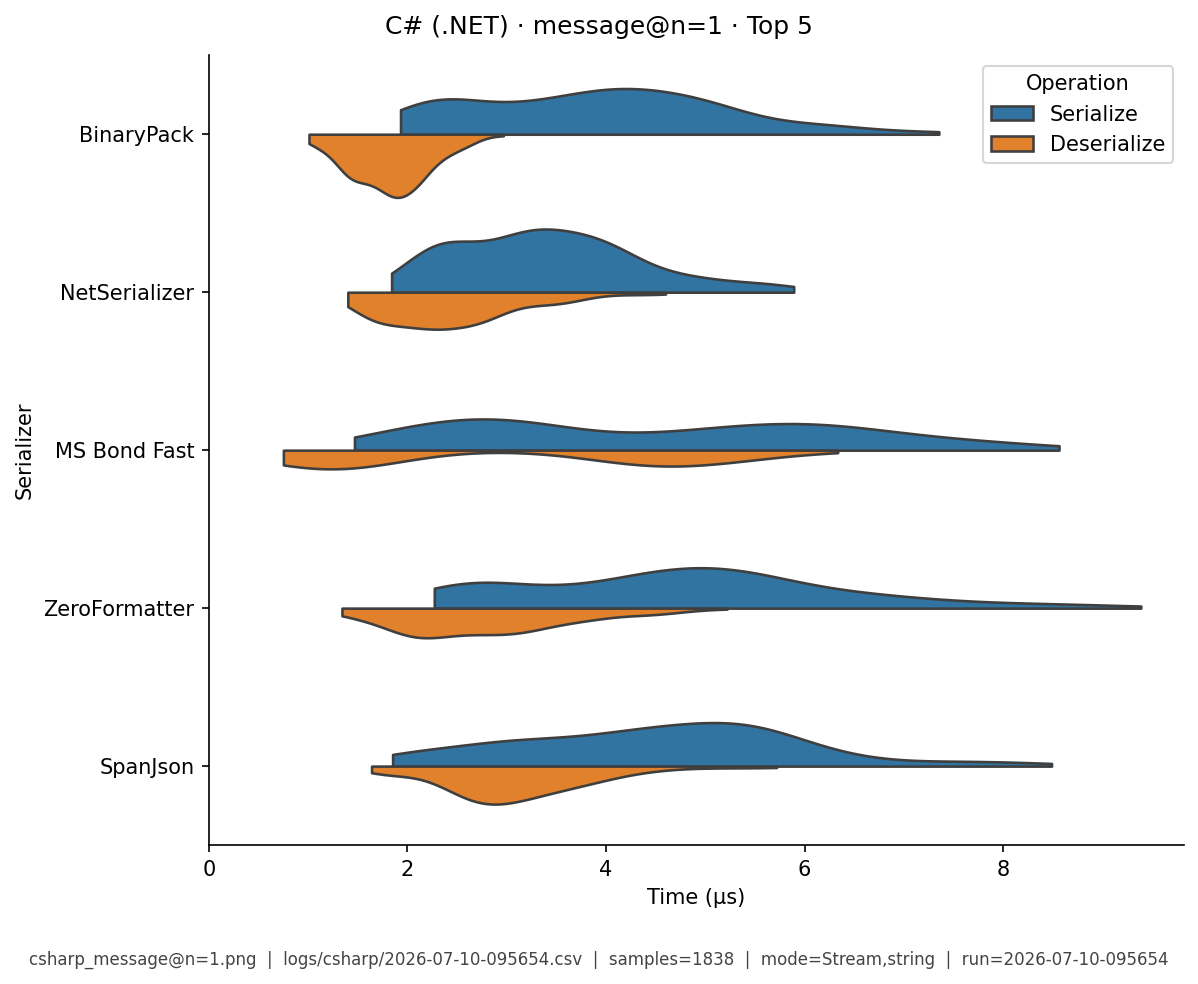
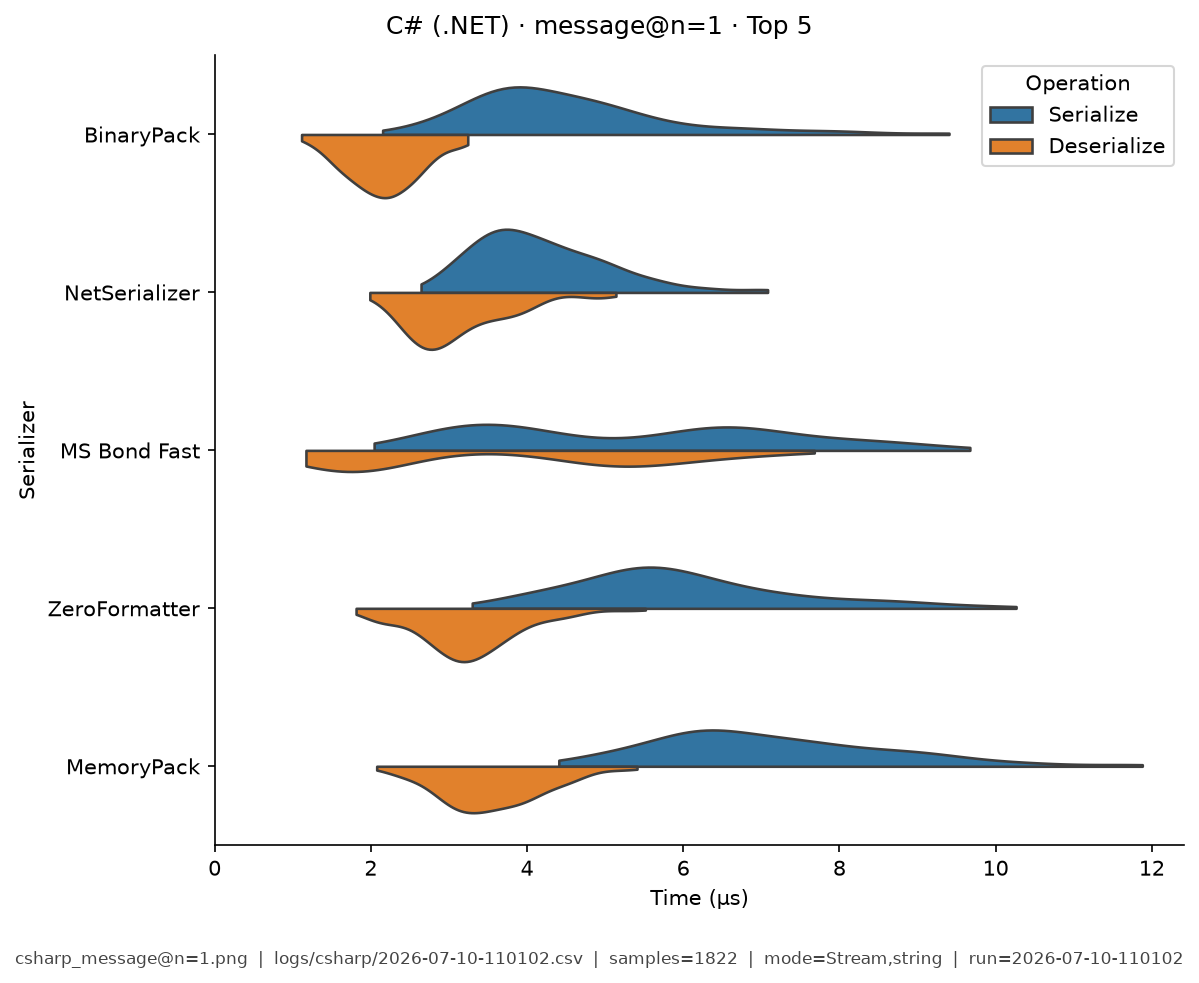
docs: refresh C# analysis after V2-only full run.
100-rep matrix (2026-07-10-110102, 72k rows, 36 serializers × 5 type_ids
× N∈{1,100}) with message/document/telemetry/strings/event only. Regenerate
docs/c-sharp/results.md and csharp_*@n=* violin plots.

diff --git a/docs/c-sharp/results.md b/docs/c-sharp/results.md
@@ -1,6 +1,6 @@
 # C# (.NET) — Benchmark Results
 
-**Generated:** 2026-07-10T10:03:30.390130
+**Generated:** 2026-07-10T11:03:44.988010
 
 Published **local snapshot** (not regenerated by GitHub Actions). Numbers may differ if you re-run benchmarks on another machine.
 
@@ -16,126 +16,126 @@ Default multi-serializer view shows **high-importance** metrics only ([METRICS.m
 
 | serializer | Median total (µs) | Median ser (µs) | Median deser (µs) | Ops/s (from mean) | Median size (B) | Samples | Fidelity |
 |---|---|---|---|---|---|---|---|
-| BinaryPack:1.0.3 | **83.9** | **36.9** | **47** | **83K** | 6.363e+04 | 1767 | **1.00** |
-| MemoryPack | 89.7 | 38.9 | 48.8 | 59.6K | 3.902e+04 | 1705 | **1.00** |
-| ZeroFormatter:1.6.4 | 114 | 53.2 | 60.6 | 62.9K | 3.59e+04 | 1750 | **1.00** |
-| GroBuf:1.9.2 | 118 | 48.9 | 68.1 | 37.7K | 6.61e+04 | 1742 | **1.00** |
-| MS Bond Compact:.NET 8.0.28 | 119 | 54.5 | 62.8 | 58.8K | 3.461e+04 | 1725 | **1.00** |
-| MS Bond Fast:.NET 8.0.28 | 122 | 56.8 | 64.1 | 73.7K | 3.681e+04 | 1720 | **1.00** |
-| Google.Protobuf:3.35.1 | 126 | 60.5 | 64.3 | 57.7K | **3.173e+04** | 1731 | **1.00** |
-| FlatSharp:7.5.1 | 134 | 56 | 76.1 | 35.9K | 4.436e+04 | 1731 | **1.00** |
-| NetSerializer:4.1.2 | 165 | 76.6 | 88.1 | 72K | 3.617e+04 | 1733 | **1.00** |
-| ProtoBuf:2.4.9.1 | 175 | 64.2 | 109 | 38.2K | 3.63e+04 | 1746 | **1.00** |
-| Ceras:4.1.7 | 178 | 68.7 | 107 | 18.3K | 3.363e+04 | 1766 | **1.00** |
-| Hyperion:0.12.2 | 243 | 140 | 102 | 36K | 3.532e+04 | 1739 | **1.00** |
-| Migrant:0.13.0.0 | 245 | 127 | 118 | 8.49K | 6.619e+04 | 1767 | **1.00** |
-| FsPickler:5.3.2 | 248 | 141 | 107 | 15.8K | 3.784e+04 | 1751 | **1.00** |
-| ExtendedXmlSerializer:3.10.0.0 | 281 | 132 | 140 | 7.76K | 5.478e+04 | 1703 | **1.00** |
-| SpanJson:4.2.1 | 367 | 202 | 163 | 47.5K | 5.352e+04 | 1730 | **1.00** |
-| Utf8Json:1.3.7 | 456 | 199 | 254 | 28.8K | 5.352e+04 | 1735 | **1.00** |
-| System.Text.Json:8.0.0.0 | 497 | 241 | 253 | 20.1K | 6.244e+04 | 1781 | **1.00** |
-| NetJSON:1.0.0 | 517 | 231 | 284 | 29.8K | 5.316e+04 | 1732 | **1.00** |
-| Jil:2.17.0 | 621 | 302 | 318 | 26.6K | 5.327e+04 | 1711 | **1.00** |
-| MS Bond Json:.NET 8.0.28 | 629 | 263 | 359 | 31.1K | 5.36e+04 | 1697 | **1.00** |
-| MS Binary:.NET 8.0.28 | 689 | 330 | 352 | 12.1K | 4.81e+04 | 1790 | **1.00** |
-| ServiceStack:6.11.0 | 847 | 394 | 451 | 16.6K | 5.054e+04 | 1756 | **1.00** |
-| FsPicklerJson:5.3.2 | 860 | 353 | 504 | 15.1K | 6.844e+04 | 1769 | **1.00** |
-| ServiceStack Json:6.11.0 | 883 | 412 | 457 | 16.3K | 5.332e+04 | 1798 | **1.00** |
-| Json.Net:13.0.4 | 888 | 408 | 480 | 47.3K | 5.811e+04 | 1689 | **1.00** |
-| Json.Net (Helper):13.0.4 | 922 | 429 | 493 | 17.2K | 5.743e+04 | 1729 | **1.00** |
-| MS DataContract:.NET 8.0.28 | 1.06e+03 | 402 | 647 | 10.7K | 1.139e+05 | 1769 | **1.00** |
-| MS DataContract Json:.NET 8.0.28 | 1.15e+03 | 367 | 777 | 14.1K | 6.221e+04 | 1758 | **1.00** |
-| MS XmlSerializer:.NET 8.0.28 | 1.17e+03 | 540 | 622 | 10.3K | 1.146e+05 | 1771 | **1.00** |
-| fastJson:2.4.0.4 | 1.24e+03 | 401 | 773 | 14.2K | 8.677e+04 | 1777 | **1.00** |
-| SharpYaml:3.12.0 | 2.51e+03 | 503 | 2e+03 | 3.18K | 6.594e+04 | 1753 | **1.00** |
-| YAXLib:4.4.0 | 3.1e+03 | 1.31e+03 | 1.67e+03 | 1.84K | 1.14e+05 | 1752 | **1.00** |
-| SharpSerializer | 5.17e+03 | 1.17e+03 | 3.88e+03 | 6.1K | 2.047e+05 | 1812 | **1.00** |
-| CsvHelper:33.1.0 | 5.68e+03 | 3.2e+03 | 2.46e+03 | 355 | 1.356e+05 | 1802 | **1.00** |
-| YamlDotNet:17.1.0 | 9.55e+03 | 5.2e+03 | 4.27e+03 | 2.25K | 6.044e+04 | 1773 | **1.00** |
+| FlatSharp:7.5.1 | **23.4** | **9.76** | **13.3** | 94.1K | 1.661e+04 | 1784 | **1.00** |
+| BinaryPack:1.0.3 | 32.4 | 14.1 | 17.8 | **115K** | 2.291e+04 | 1756 | **1.00** |
+| MemoryPack | 60.9 | 26.6 | 33.9 | 66.5K | 1.659e+04 | 1743 | **1.00** |
+| ZeroFormatter:1.6.4 | 65.4 | 28.8 | 36.5 | 66.7K | 1.364e+04 | 1784 | **1.00** |
+| MS Bond Compact:.NET 8.0.28 | 70.1 | 32.9 | 37.2 | 62K | 1.141e+04 | 1755 | **1.00** |
+| MS Bond Fast:.NET 8.0.28 | 70.8 | 32.7 | 38 | 72.6K | 1.36e+04 | 1769 | **1.00** |
+| GroBuf:1.9.2 | 86.4 | 47.5 | 38.1 | 42.2K | 2.716e+04 | 1761 | **1.00** |
+| Google.Protobuf:3.35.1 | 88.8 | 44.9 | 43.2 | 55.7K | 1.184e+04 | 1771 | **1.00** |
+| NetSerializer:4.1.2 | 91.4 | 39.3 | 51.7 | 71.9K | 1.195e+04 | 1781 | **1.00** |
+| ProtoBuf:2.4.9.1 | 111 | 36.9 | 73.7 | 44.2K | 1.218e+04 | 1775 | **1.00** |
+| Ceras:4.1.7 | 122 | 43.1 | 78.2 | 20.6K | **1.14e+04** | 1777 | **1.00** |
+| Migrant:0.13.0.0 | 132 | 55.7 | 75.1 | 10.5K | 2.534e+04 | 1794 | **1.00** |
+| SpanJson:4.2.1 | 140 | 71 | 69.3 | 55.5K | 1.95e+04 | 1787 | **1.00** |
+| Hyperion:0.12.2 | 144 | 76.2 | 67.3 | 34.7K | 1.359e+04 | 1770 | **1.00** |
+| ExtendedXmlSerializer:3.10.0.0 | 156 | 78.2 | 76.3 | 9.31K | 1.986e+04 | 1790 | **1.00** |
+| FsPickler:5.3.2 | 157 | 87.8 | 68.4 | 17.1K | 1.442e+04 | 1803 | **1.00** |
+| Utf8Json:1.3.7 | 177 | 70.7 | 106 | 36.1K | 1.95e+04 | 1753 | **1.00** |
+| NetJSON:1.0.0 | 195 | 79.3 | 115 | 43.7K | 1.933e+04 | 1757 | **1.00** |
+| MS Bond Json:.NET 8.0.28 | 240 | 95.1 | 143 | 36.8K | 1.933e+04 | 1773 | **1.00** |
+| System.Text.Json:8.0.0.0 | 240 | 104 | 136 | 22.5K | 2.275e+04 | 1797 | **1.00** |
+| Jil:2.17.0 | 264 | 131 | 132 | 27.2K | 1.95e+04 | 1745 | **1.00** |
+| ServiceStack:6.11.0 | 329 | 148 | 181 | 31.7K | 1.72e+04 | 1789 | **1.00** |
+| FsPicklerJson:5.3.2 | 342 | 140 | 201 | 19.9K | 2.548e+04 | 1781 | **1.00** |
+| Json.Net:13.0.4 | 368 | 158 | 208 | 41.8K | 2.217e+04 | 1756 | **1.00** |
+| Json.Net (Helper):13.0.4 | 393 | 172 | 220 | 20.1K | 2.163e+04 | 1749 | **1.00** |
+| ServiceStack Json:6.11.0 | 395 | 170 | 222 | 21.1K | 1.95e+04 | 1784 | **1.00** |
+| fastJson:2.4.0.4 | 404 | 144 | 259 | 18.7K | 2.198e+04 | 1719 | **1.00** |
+| MS Binary:.NET 8.0.28 | 457 | 218 | 238 | 10.9K | 2.192e+04 | 1776 | **1.00** |
+| MS DataContract:.NET 8.0.28 | 501 | 165 | 332 | 13.1K | 4.826e+04 | 1785 | **1.00** |
+| MS XmlSerializer:.NET 8.0.28 | 545 | 212 | 332 | 12.8K | 5.098e+04 | 1772 | **1.00** |
+| MS DataContract Json:.NET 8.0.28 | 582 | 151 | 429 | 16.4K | 2.275e+04 | 1794 | **1.00** |
+| SharpYaml:3.12.0 | 1.18e+03 | 270 | 901 | 3.7K | 2.618e+04 | 1757 | **1.00** |
+| CsvHelper:33.1.0 | 1.54e+03 | 863 | 669 | 678 | 2.196e+04 | 1778 | **1.00** |
+| YAXLib:4.4.0 | 1.79e+03 | 852 | 913 | 2.02K | 5.085e+04 | 1643 | **1.00** |
+| SharpSerializer | 2.42e+03 | 575 | 1.77e+03 | 6.33K | 1.073e+05 | 1760 | **1.00** |
+| YamlDotNet:17.1.0 | 4.54e+03 | 2.39e+03 | 2.12e+03 | 2.74K | 2.176e+04 | 1780 | **1.00** |
 
 
 ### Total Time
 
 | serializer | bytes mode/mean | bytes mode/median | stream mode/mean | stream mode/median |
 |---|---|---|---|---|
-| BinaryPack:1.0.3 | - | - | **5.3** | **5.1** |
-| MemoryPack | - | - | 9.67 | 10 |
-| ZeroFormatter:1.6.4 | - | - | 7.26 | 7.27 |
-| GroBuf:1.9.2 | - | - | 14.7 | 14.9 |
-| MS Bond Compact:.NET 8.0.28 | - | - | 13 | 12.9 |
-| MS Bond Fast:.NET 8.0.28 | - | - | 10.9 | 10.8 |
-| Google.Protobuf:3.35.1 | - | - | 9.31 | 9.65 |
-| FlatSharp:7.5.1 | - | - | 15.8 | 16.1 |
-| NetSerializer:4.1.2 | - | - | 5.39 | 5.38 |
-| ProtoBuf:2.4.9.1 | - | - | 16.7 | 16.9 |
-| Ceras:4.1.7 | - | - | 32.9 | 31.6 |
-| Hyperion:0.12.2 | - | - | 14.1 | 14.1 |
-| Migrant:0.13.0.0 | - | - | 95.9 | 96.5 |
-| FsPickler:5.3.2 | - | - | 29.4 | 30.1 |
-| ExtendedXmlSerializer:3.10.0.0 | - | - | 106 | 107 |
-| SpanJson:4.2.1 | - | - | 7.99 | 7.88 |
-| Utf8Json:1.3.7 | - | - | 14.1 | 14.3 |
-| System.Text.Json:8.0.0.0 | - | - | 40.1 | 42.1 |
-| NetJSON:1.0.0 | - | - | 16.9 | 16.7 |
-| Jil:2.17.0 | - | - | 13.8 | 14.4 |
-| MS Bond Json:.NET 8.0.28 | - | - | 16.1 | 15.8 |
-| MS Binary:.NET 8.0.28 | - | - | 43.8 | 45.2 |
-| ServiceStack:6.11.0 | - | - | 31.1 | 31.2 |
-| FsPicklerJson:5.3.2 | - | - | 38.1 | 37.9 |
-| ServiceStack Json:6.11.0 | - | - | 32.6 | 32 |
-| Json.Net:13.0.4 | - | - | 12.9 | 13 |
-| Json.Net (Helper):13.0.4 | - | - | 37.4 | 35.9 |
-| MS DataContract:.NET 8.0.28 | - | - | 50.6 | 52.8 |
-| MS DataContract Json:.NET 8.0.28 | - | - | 34.5 | 34.9 |
-| MS XmlSerializer:.NET 8.0.28 | - | - | 53.8 | 51 |
-| fastJson:2.4.0.4 | - | - | 38.8 | 38.1 |
-| SharpYaml:3.12.0 | - | - | 204 | 201 |
-| YAXLib:4.4.0 | - | - | 333 | 333 |
-| SharpSerializer | - | - | 78.6 | 76.7 |
-| CsvHelper:33.1.0 | - | - | 2.11e+03 | 2.08e+03 |
-| YamlDotNet:17.1.0 | - | - | 213 | 214 |
+| FlatSharp:7.5.1 | - | - | 14.4 | 14 |
+| BinaryPack:1.0.3 | - | - | **6.48** | **6.4** |
+| MemoryPack | - | - | 10.5 | 10.2 |
+| ZeroFormatter:1.6.4 | - | - | 8.95 | 8.66 |
+| MS Bond Compact:.NET 8.0.28 | - | - | 15.4 | 15 |
+| MS Bond Fast:.NET 8.0.28 | - | - | 12.6 | 12.2 |
+| GroBuf:1.9.2 | - | - | 19.8 | 19.3 |
+| Google.Protobuf:3.35.1 | - | - | 10.6 | 10.1 |
+| NetSerializer:4.1.2 | - | - | 6.65 | 6.42 |
+| ProtoBuf:2.4.9.1 | - | - | 16.8 | 16.1 |
+| Ceras:4.1.7 | - | - | 35.8 | 34.7 |
+| Migrant:0.13.0.0 | - | - | 116 | 111 |
+| SpanJson:4.2.1 | - | - | 12 | 11.8 |
+| Hyperion:0.12.2 | - | - | 14.8 | 14.1 |
+| ExtendedXmlSerializer:3.10.0.0 | - | - | 122 | 116 |
+| FsPickler:5.3.2 | - | - | 36.3 | 35.4 |
+| Utf8Json:1.3.7 | - | - | 20.9 | 20.4 |
+| NetJSON:1.0.0 | - | - | 17.5 | 16.8 |
+| MS Bond Json:.NET 8.0.28 | - | - | 23.3 | 23.1 |
+| System.Text.Json:8.0.0.0 | - | - | 55.5 | 51.3 |
+| Jil:2.17.0 | - | - | 19.1 | 18.7 |
+| ServiceStack:6.11.0 | - | - | 23.7 | 23.5 |
+| FsPicklerJson:5.3.2 | - | - | 39.6 | 39.2 |
+| Json.Net:13.0.4 | - | - | 19.9 | 19.8 |
+| Json.Net (Helper):13.0.4 | - | - | 46.3 | 45.7 |
+| ServiceStack Json:6.11.0 | - | - | 41.2 | 39.8 |
+| fastJson:2.4.0.4 | - | - | 45.3 | 44.6 |
+| MS Binary:.NET 8.0.28 | - | - | 54 | 51.5 |
+| MS DataContract:.NET 8.0.28 | - | - | 62.6 | 61 |
+| MS XmlSerializer:.NET 8.0.28 | - | - | 57.8 | 57.2 |
+| MS DataContract Json:.NET 8.0.28 | - | - | 39.5 | 38.9 |
+| SharpYaml:3.12.0 | - | - | 310 | 307 |
+| CsvHelper:33.1.0 | - | - | 1.41e+03 | 1.4e+03 |
+| YAXLib:4.4.0 | - | - | 433 | 430 |
+| SharpSerializer | - | - | 96.8 | 91.2 |
+| YamlDotNet:17.1.0 | - | - | 292 | 293 |
 
 
 ### Ops/Sec
 
 | serializer | document@n=1 | document@n=100 | event@n=1 | event@n=100 | message@n=1 | message@n=100 | strings@n=1 | strings@n=100 | telemetry@n=1 | telemetry@n=100 |
 |---|---|---|---|---|---|---|---|---|---|---|
-| BinaryPack:1.0.3 | 62K | 2.7K | 260K | 41K | 160K | 18K | 100K | **2.8K** | 94K | 2.2K |
-| Ceras:4.1.7 | 14K | 1.6K | 49K | 15K | 31K | 7.6K | 24K | 1.3K | 28K | 3.9K |
-| CsvHelper:33.1.0 | 0.18K | 0.12K | 0.5K | 0.4K | 0.46K | 0.37K | 0.94K | 0.29K | 0.21K | 0.039K |
-| ExtendedXmlSerializer:3.10.0.0 | 6.6K | 1.7K | 17K | 9.7K | 8.8K | 3.8K | 13K | 1.7K | 13K | 1.3K |
-| FlatSharp:7.5.1 | 22K | 2.1K | 100K | 35K | 56K | 9K | 50K | 1.4K | 45K | 3.4K |
-| FsPickler:5.3.2 | 12K | 0.99K | 44K | 13K | 33K | 6.3K | 20K | 1.2K | 26K | 3K |
-| FsPicklerJson:5.3.2 | 11K | 0.32K | 52K | 6.6K | 23K | 1.7K | 29K | 0.9K | 14K | 0.19K |
-| Google.Protobuf:3.35.1 | 30K | **3.7K** | 210K | 29K | 84K | 6.9K | 68K | 1.3K | 51K | 4.3K |
-| GroBuf:1.9.2 | 32K | 2K | 93K | 27K | 65K | 13K | 50K | 1.5K | 56K | 4.5K |
-| Hyperion:0.12.2 | 20K | 1.3K | 140K | 21K | 64K | 7.5K | 45K | 1.1K | 31K | 1.2K |
-| Jil:2.17.0 | 13K | 0.63K | 110K | 14K | 68K | 4.9K | 35K | 0.9K | 21K | 0.35K |
-| Json.Net:13.0.4 | 19K | 0.29K | 280K | 7K | 87K | 1.2K | 92K | 1.3K | 22K | 0.25K |
-| Json.Net (Helper):13.0.4 | 10K | 0.3K | 83K | 6.1K | 27K | 1.2K | 42K | 1.3K | 15K | 0.25K |
-| MS Binary:.NET 8.0.28 | 6.3K | 0.24K | 41K | 4.9K | 22K | 2K | 17K | 0.65K | 21K | 1.7K |
-| MS Bond Compact:.NET 8.0.28 | 46K | 2.6K | 270K | 45K | 170K | 19K | 94K | 1.6K | 110K | 3.7K |
-| MS Bond Fast:.NET 8.0.28 | **80K** | 2.1K | **330K** | 44K | **250K** | **20K** | **110K** | 1.6K | **170K** | 3.4K |
-| MS Bond Json:.NET 8.0.28 | 21K | 0.48K | 130K | 13K | 66K | 3.1K | 68K | 1.7K | 20K | 0.27K |
-| MS DataContract:.NET 8.0.28 | 10K | 0.32K | 40K | 5.4K | 18K | 1.5K | 19K | 0.58K | 9.4K | 0.19K |
-| MS DataContract Json:.NET 8.0.28 | 11K | 0.25K | 56K | 3.9K | 28K | 1.1K | 26K | 0.57K | 12K | 0.2K |
-| MS XmlSerializer:.NET 8.0.28 | 9.9K | 0.27K | 35K | 4.9K | 18K | 1.5K | 20K | 0.62K | 11K | 0.14K |
-| MemoryPack | 40K | 3.5K | 190K | **58K** | 96K | 18K | 52K | 1.9K | 68K | **5.3K** |
-| Migrant:0.13.0.0 | 9.1K | 1.4K | 18K | 9.2K | 9.6K | 4.3K | 11K | 1.5K | 13K | 1K |
-| NetJSON:1.0.0 | 20K | 0.89K | 130K | 14K | 61K | 4.3K | 66K | 1.5K | 23K | 0.37K |
-| NetSerializer:4.1.2 | 39K | 1.7K | 250K | 37K | 160K | 8.5K | 76K | 1.5K | 91K | 2K |
-| ProtoBuf:2.4.9.1 | 34K | 2K | 130K | 22K | 51K | 7.1K | 51K | 1.2K | 63K | 2.4K |
-| ServiceStack:6.11.0 | 12K | 0.39K | 65K | 4.6K | 34K | 1.2K | 36K | 1K | 14K | 0.27K |
-| ServiceStack Json:6.11.0 | 10K | 0.35K | 71K | 7.9K | 33K | 1.5K | 35K | 0.96K | 13K | 0.16K |
-| SharpSerializer | 3.2K | 0.033K | 26K | 1.5K | 12K | 0.31K | 12K | 0.25K | 5.8K | 0.055K |
-| SharpYaml:3.12.0 | 2.5K | 0.085K | 9.8K | 1.8K | 5.4K | 0.24K | 8K | 0.28K | 3.7K | 0.11K |
-| SpanJson:4.2.1 | 20K | 1.3K | 220K | 30K | 140K | 14K | 48K | 1.9K | 21K | 0.36K |
-| System.Text.Json:8.0.0.0 | 12K | 0.66K | 82K | 12K | 26K | 3.2K | 40K | 1.2K | 15K | 0.43K |
-| Utf8Json:1.3.7 | 10K | 1.2K | 120K | 21K | 72K | 4.4K | 49K | 1.2K | 17K | 0.39K |
-| YAXLib:4.4.0 | 1.4K | 0.079K | 5.3K | 1.3K | 3K | 0.38K | 4.3K | 0.32K | 2.1K | 0.098K |
-| YamlDotNet:17.1.0 | 1.6K | 0.024K | 9.6K | 0.49K | 4.6K | 0.079K | 3.9K | 0.086K | 2.3K | 0.031K |
-| ZeroFormatter:1.6.4 | 28K | 2.9K | 210K | 54K | 130K | 16K | 61K | 1.5K | 42K | 3.5K |
-| fastJson:2.4.0.4 | 11K | 0.21K | 56K | 4.2K | 27K | 1.2K | 37K | 1.4K | 13K | 0.14K |
+| BinaryPack:1.0.3 | **210K** | 9.8K | **230K** | 18K | 150K | 14K | **250K** | **10K** | 170K | 6.4K |
+| Ceras:4.1.7 | 36K | 3.5K | 39K | 4.6K | 27K | 6.3K | 39K | 2.7K | 34K | 5.5K |
+| CsvHelper:33.1.0 | 0.86K | 0.52K | 0.85K | 0.56K | 0.7K | 0.55K | 0.88K | 0.51K | 0.86K | 0.49K |
+| ExtendedXmlSerializer:3.10.0.0 | 15K | 4K | 17K | 5.7K | 7.9K | 3.2K | 18K | 4.5K | 15K | 3.7K |
+| FlatSharp:7.5.1 | 160K | **19K** | 160K | **24K** | 58K | **24K** | 170K | 9.3K | 150K | **16K** |
+| FsPickler:5.3.2 | 29K | 2.9K | 33K | 3.9K | 28K | 6K | 35K | 2.4K | 29K | 4.3K |
+| FsPicklerJson:5.3.2 | 38K | 1.4K | 43K | 2.3K | 23K | 1.8K | 46K | 1.9K | 26K | 0.69K |
+| Google.Protobuf:3.35.1 | 71K | 4.9K | 100K | 6.5K | 82K | 6.2K | 110K | 2.7K | 71K | 7.8K |
+| GroBuf:1.9.2 | 74K | 4.9K | 84K | 7.4K | 57K | 10K | 96K | 3.9K | 90K | 9.4K |
+| Hyperion:0.12.2 | 57K | 3.1K | 67K | 4.7K | 58K | 5.6K | 67K | 2.2K | 52K | 2.8K |
+| Jil:2.17.0 | 47K | 2.4K | 54K | 3.5K | 51K | 2.4K | 71K | 2.5K | 34K | 0.85K |
+| Json.Net:13.0.4 | 66K | 1K | 110K | 2K | 61K | 1.2K | 140K | 2.2K | 59K | 0.78K |
+| Json.Net (Helper):13.0.4 | 34K | 0.66K | 46K | 1.9K | 23K | 1.2K | 63K | 2.1K | 33K | 0.78K |
+| MS Binary:.NET 8.0.28 | 17K | 0.66K | 20K | 1.1K | 18K | 1.5K | 24K | 1.1K | 20K | 1.5K |
+| MS Bond Compact:.NET 8.0.28 | 140K | 6.3K | 170K | 8.7K | 120K | 12K | 170K | 3.7K | 180K | 8.5K |
+| MS Bond Fast:.NET 8.0.28 | 170K | 5.7K | 190K | 8.3K | **190K** | 11K | 190K | 3.8K | **220K** | 8.4K |
+| MS Bond Json:.NET 8.0.28 | 70K | 2.2K | 94K | 4.2K | 48K | 2.8K | 110K | 3.1K | 46K | 0.91K |
+| MS DataContract:.NET 8.0.28 | 25K | 1K | 29K | 1.9K | 15K | 1.1K | 29K | 0.97K | 19K | 0.5K |
+| MS DataContract Json:.NET 8.0.28 | 26K | 0.7K | 36K | 1.5K | 24K | 0.84K | 41K | 1K | 25K | 0.51K |
+| MS XmlSerializer:.NET 8.0.28 | 24K | 0.86K | 28K | 1.6K | 17K | 1.3K | 28K | 0.85K | 22K | 0.58K |
+| MemoryPack | 110K | 7.9K | 140K | 10K | 92K | 10K | 110K | 3.5K | 85K | 10K |
+| Migrant:0.13.0.0 | 17K | 3.8K | 18K | 5.9K | 8.9K | 4.3K | 18K | 4.2K | 15K | 3K |
+| NetJSON:1.0.0 | 82K | 3K | 110K | 5.5K | 64K | 3.3K | 130K | 3.8K | 60K | 1.2K |
+| NetSerializer:4.1.2 | 120K | 5.1K | 130K | 6.7K | 130K | 6.8K | 130K | 3.1K | 120K | 4.7K |
+| ProtoBuf:2.4.9.1 | 72K | 4.3K | 87K | 5.3K | 56K | 6K | 79K | 2.3K | 97K | 5.6K |
+| ServiceStack:6.11.0 | 48K | 1.5K | 70K | 2.7K | 45K | 1.2K | 110K | 2.8K | 36K | 0.85K |
+| ServiceStack Json:6.11.0 | 34K | 1.2K | 49K | 2.1K | 25K | 0.99K | 74K | 1.9K | 27K | 0.81K |
+| SharpSerializer | 9.6K | 0.11K | 14K | 0.27K | 10K | 0.22K | 16K | 0.25K | 11K | 0.15K |
+| SharpYaml:3.12.0 | 4.9K | 0.34K | 6.3K | 0.67K | 3.6K | 0.24K | 13K | 0.6K | 7.1K | 0.34K |
+| SpanJson:4.2.1 | 96K | 6.3K | 140K | 9.2K | 86K | 6.8K | 180K | 4.9K | 46K | 1.3K |
+| System.Text.Json:8.0.0.0 | 43K | 2.1K | 53K | 3.6K | 18K | 2.1K | 69K | 2.7K | 30K | 1.2K |
+| Utf8Json:1.3.7 | 62K | 5.1K | 78K | 6.8K | 44K | 2.1K | 86K | 3.6K | 38K | 1.2K |
+| YAXLib:4.4.0 | 3.1K | 0.15K | 3.9K | 0.4K | 2.5K | 0.31K | 5.8K | 0.39K | 3.4K | 0.26K |
+| YamlDotNet:17.1.0 | 4.3K | 0.069K | 6.5K | 0.15K | 3.5K | 0.079K | 7.4K | 0.15K | 5.1K | 0.096K |
+| ZeroFormatter:1.6.4 | 92K | 7.7K | 100K | 9K | 110K | 8.9K | 140K | 3.7K | 88K | 7.9K |
+| fastJson:2.4.0.4 | 29K | 0.91K | 40K | 1.9K | 24K | 1.4K | 61K | 2.5K | 31K | 0.75K |
 
 ## Violin plots
 
@@ -199,14 +199,14 @@ That refreshes this language's results tables and violin plots under `docs/analy
 
     Key fields from the run sidecar (`*.configs.json`, or legacy `*.environment.json`). Full metric definitions: [Metrics catalog](../analysis/METRICS.md). Optional blocks (`dataset`, `serializers`) appear only when captured.
     
-    - **Source CSV:** `/home/leo/PycharmProjects/GLD/seriailizer-benchmark/logs/csharp/2026-07-10-095654.csv`
-    - run=2026-07-10-095654
+    - **Source CSV:** `/home/leo/PycharmProjects/GLD/seriailizer-benchmark/logs/csharp/2026-07-10-110102.csv`
+    - run=2026-07-10-110102
     - language=csharp
     - os=Linux 6.8.0-124-generic
     - cpu=12th Gen Intel(R) Core(TM) i7-12800H (20 threads)
     - ram=31.0 GiB
-    - runtimes: dotnet=8.0.422, python=3.12.13, node=24.15.0
-    - git=2cdc872
+    - runtimes: dotnet=8.0.422, python=3.14.0, node=24.15.0
+    - git=81641ba
     - seed=42
     - warmup_reps=1
     - serializers=36
